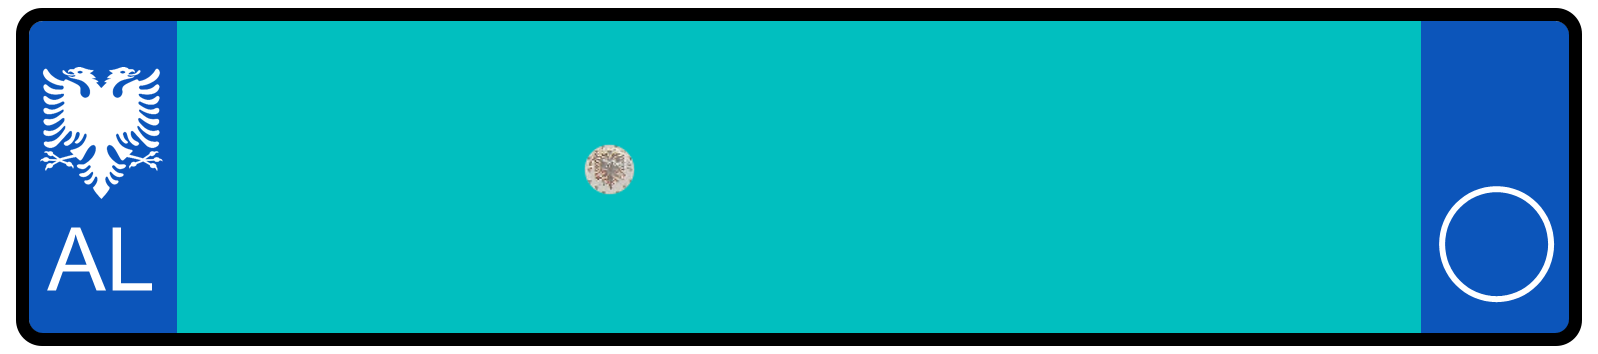
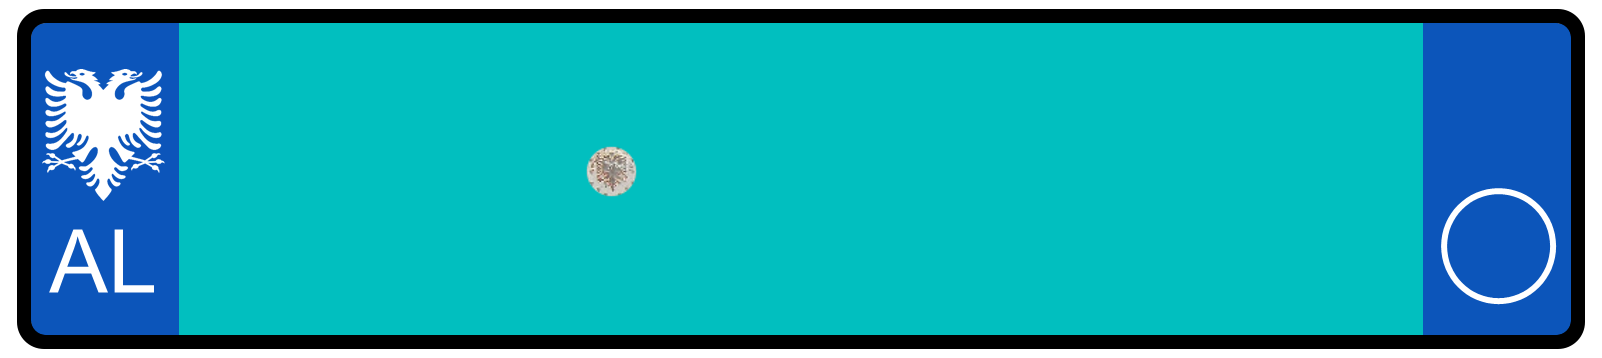
Albanian two-line and old (red band) plates; white trailer lettering
- cars_double.png (2011 two-line): seal added on the top row, laid out
  as "AB · 123 / CD"
- cars_old.png (pre-2011 red band) for 1993-series plates, no seal
- All new Albanian backgrounds share the same black rounded border,
  scaled from the car plate via the eagle-band width; white screenshot
  frames removed, transparent corners
- Plate art can set a text colour; trailers print white
- scripts/plate-art.cjs: measure + frame helper for future backgrounds
- Bump plate image version so cached trailer images refresh

diff --git a/app/api/plate/route.ts b/app/api/plate/route.ts
@@ -38,7 +38,7 @@ function getArtDataUri(src: string) {
 const esc = (s: string) => s.replace(/[&<>"']/g, (c) => `&#${c.charCodeAt(0)};`);
 
 /** SVG for one run of text: glyph outlines, umlauts synthesised (font has none). */
-function runSvg(font: opentype.Font, text: string, fontSize: number, x0: number, x1: number, centerY: number) {
+function runSvg(font: opentype.Font, text: string, fontSize: number, x0: number, x1: number, centerY: number, color = "#111") {
   const scale = fontSize / font.unitsPerEm;
   const out = new opentype.Path();
   const dots: string[] = [];
@@ -72,7 +72,7 @@ function runSvg(font: opentype.Font, text: string, fontSize: number, x0: number,
   const startX = x0 + (x1 - x0 - width) / 2;
   const baseline = centerY - ((CAP_TOP + CAP_BOTTOM) / 2) * fontSize;
   const sw = (STROKE * fontSize).toFixed(2);
-  return `<g transform="translate(${startX.toFixed(2)} ${baseline.toFixed(2)}) scale(${CONDENSE} 1)" fill="#111" stroke="#111" stroke-width="${sw}" stroke-linejoin="round">`
+  return `<g transform="translate(${startX.toFixed(2)} ${baseline.toFixed(2)}) scale(${CONDENSE} 1)" fill="${color}" stroke="${color}" stroke-width="${sw}" stroke-linejoin="round">`
     + `<path d="${out.toPathData(2)}"/>${dots.join("")}</g>`;
 }
 
@@ -104,7 +104,8 @@ export async function GET(req: Request) {
     background = `<rect x="${b / 2}" y="${b / 2}" width="${width - b}" height="${h - b}" rx="${radius}" fill="#fbfbf8" stroke="#161616" stroke-width="${b}"/>`;
   }
 
-  const runs = layout.runs.map((r) => runSvg(font, r.text, r.fontSize, r.x0, r.x1, r.centerY)).join("");
+  const color = layout.art?.textColor ?? "#111";
+  const runs = layout.runs.map((r) => runSvg(font, r.text, r.fontSize, r.x0, r.x1, r.centerY, color)).join("");
   const svg = `<svg xmlns="http://www.w3.org/2000/svg" width="${width}" height="${h}" viewBox="0 0 ${width} ${h}">`
     + `<title>${esc(layout.printed)}</title>${background}${runs}</svg>`;
 

diff --git a/app/lib/plateLayout.ts b/app/lib/plateLayout.ts
@@ -24,6 +24,8 @@ export type PlateArt = {
   h: number;            // image height (px)
   rows: ArtRow[];
   split: SplitRule;
+  /** Lettering colour (default near-black). */
+  textColor?: string;
 };
 
 /**
@@ -43,13 +45,38 @@ export const PLATE_ART: Record<string, PlateArt> = {
     rows: [{ y0: 14, y1: 205, boxes: [{ x0: 120, x1: 355 }, { x0: 411, x1: 889 }] }],
     split: "seal",
   },
-  // trailer_single.png (1598×354): teal area x177–1420, y21–332, seal x583–635.
+
+  // Plates below were prepared with scripts/plate-art.cjs (border 14px / radius 27px,
+  // content offset +31,+23) so they all match the car plate's border.
+
+  // trailer_single.png (1602×358): teal area x179–1422, y23–334, seal x585–637. White lettering.
   "albania:trailer-2011-single": {
     src: "/plates/albania/trailer_single.png",
-    w: 1598,
-    h: 354,
-    rows: [{ y0: 21, y1: 332, boxes: [{ x0: 191, x1: 573 }, { x0: 645, x1: 1408 }] }],
+    w: 1602,
+    h: 358,
+    rows: [{ y0: 23, y1: 334, boxes: [{ x0: 193, x1: 575 }, { x0: 647, x1: 1410 }] }],
     split: "seal",
+    textColor: "#fff",
+  },
+  // cars_double.png (940×474): top row between the bands x178–761, y23–241 with the seal
+  // at x391–454; bottom row full width y242–450.  "AB 123 CD" → AB · 123 / CD
+  "albania:car-2011-double": {
+    src: "/plates/albania/cars_double.png",
+    w: 940,
+    h: 474,
+    rows: [
+      { y0: 23, y1: 241, boxes: [{ x0: 188, x1: 372 }, { x0: 472, x1: 752 }] },
+      { y0: 242, y1: 450, boxes: [{ x0: 60, x1: 880 }] },
+    ],
+    split: "al-double",
+  },
+  // cars_old.png (1602×358): pre-2011 plate, red band; white area x179–1570, y23–334. No seal.
+  "albania:car-1993-single": {
+    src: "/plates/albania/cars_old.png",
+    w: 1602,
+    h: 358,
+    rows: [{ y0: 23, y1: 334, boxes: [{ x0: 191, x1: 1558 }] }],
+    split: "whole",
   },
 };
 

diff --git a/app/components/PlateBadge.tsx b/app/components/PlateBadge.tsx
@@ -12,7 +12,7 @@ export { formatPlateText } from "@/app/lib/plateLayout";
 export type { PlateSize };
 
 /** Bump when the plate rendering changes, so CDN-cached images refresh. */
-const PLATE_IMAGE_VERSION = 1;
+const PLATE_IMAGE_VERSION = 2;
 /** Render at 3× for crisp output on high-density screens. */
 const DENSITY = 3;
 
